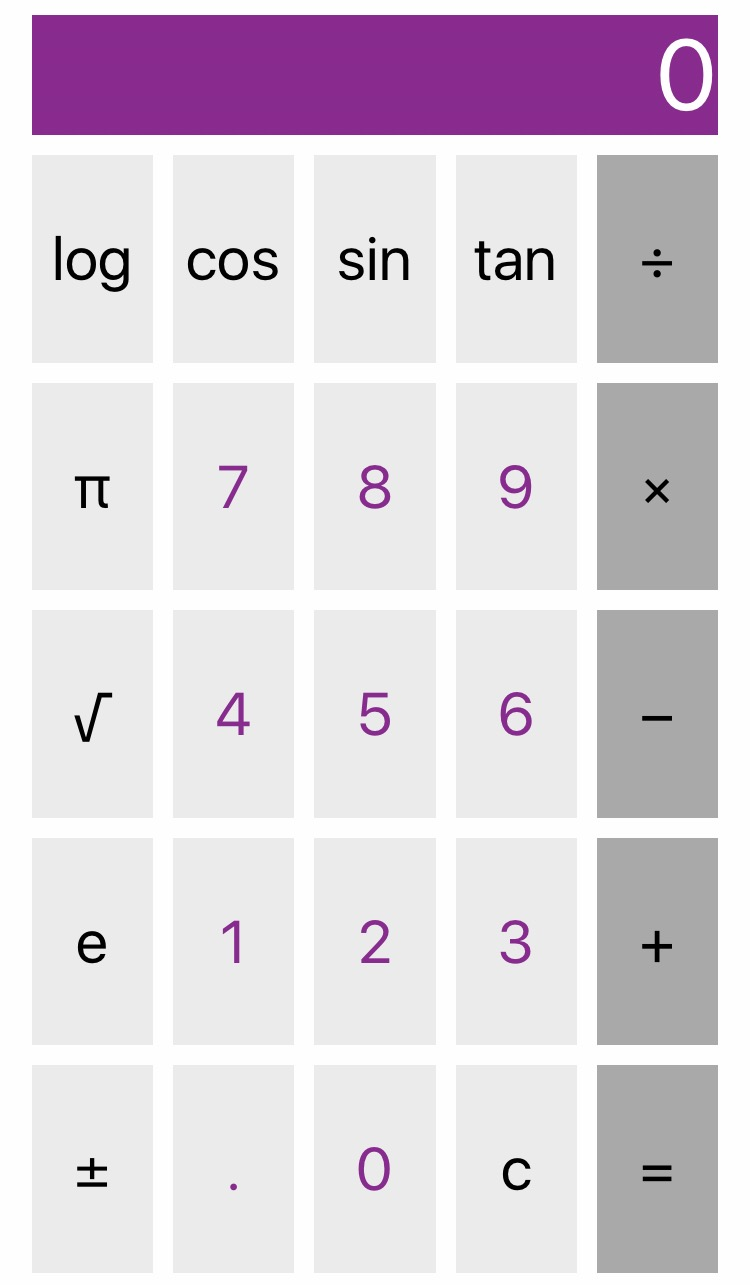
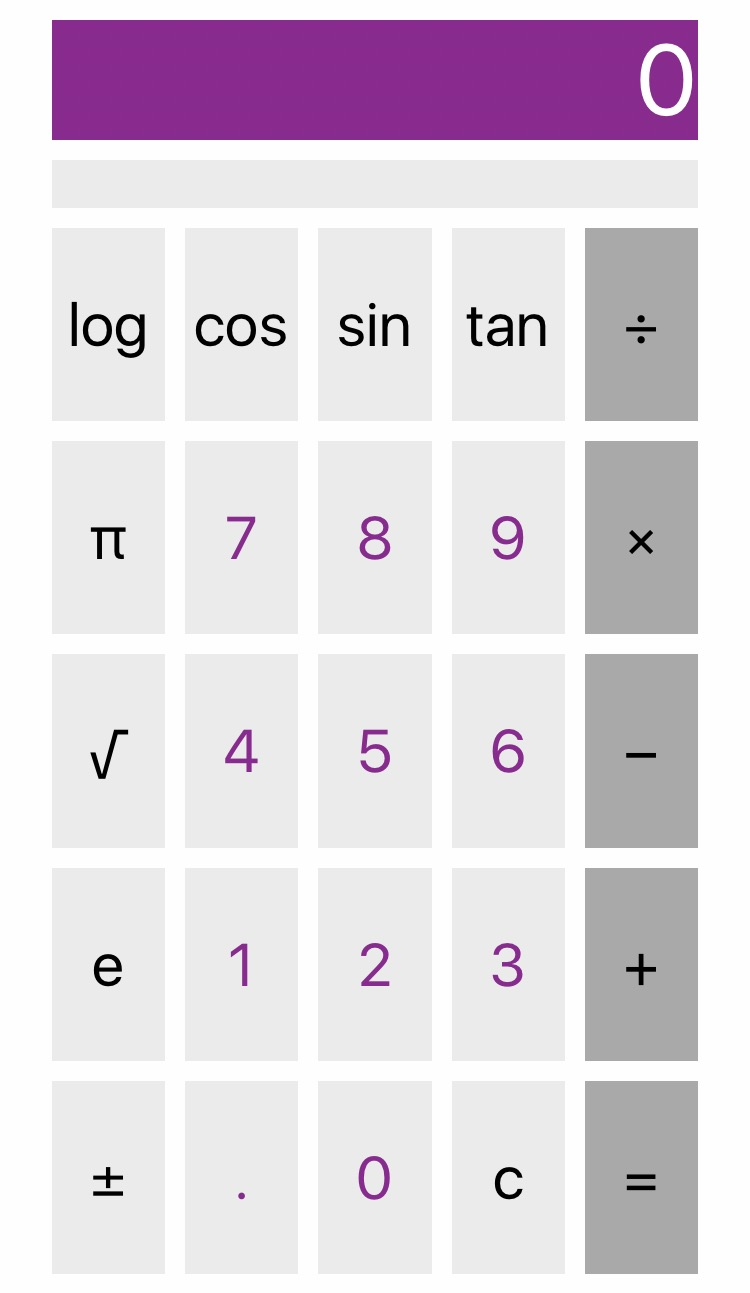
UI shows past operations

diff --git a/CalculatorBrain.swift b/CalculatorBrain.swift
@@ -11,9 +11,17 @@ import Foundation
 class CalculatorBrain {
   
   private var accumulator = 0.0
+  private var internalProgram = [AnyObject]()
+  
+  var description = ""
+  
+  var isPartialResult: Bool {
+    return pending == nil
+  }
   
   func setOperand(operand: Double) {
     accumulator = operand
+    internalProgram.append(operand as AnyObject)
   }
   
   private var operations: Dictionary<String, Operation> = [
@@ -41,30 +49,48 @@ class CalculatorBrain {
     case Clear
   }
   func performOperation(symbol: String) {
+    internalProgram.append(symbol as AnyObject)
     if let operation = operations[symbol] {
       switch operation {
       case .Constant(let value):
         accumulator = value
+        if pending != nil {
+          description += " " + formatAccumulator()
+        } else {
+          description = formatAccumulator()
+        }
+        
       case .UnaryOperation(let function):
         // Doesn't allow the square root of negative numbers
         if symbol == "√" && accumulator < 0 {
           return
         }
         accumulator = function(accumulator)
+        if description.trimmingCharacters(in: CharacterSet.whitespacesAndNewlines) == "" {
+          description = " " + symbol + "(" + formatAccumulator() + ")"
+        } else {
+          description = " " + symbol + "(" + description + ")"
+        }
       case .BinaryOperation(let function):
         executePendingBinaryOperation()
         pending = PendingBinaryOperationInfo(binaryFunction: function, firstOperand: accumulator)
+        if description.trimmingCharacters(in: CharacterSet.whitespacesAndNewlines) == "" {
+          description += formatAccumulator() + " " + symbol
+        } else {
+          description += " " + symbol
+        }
+        
       case .Equals:
         executePendingBinaryOperation()
       case .Clear:
-        pending = nil
-        accumulator = 0.0
+        clear()
       }
     }
   }
   
   private func executePendingBinaryOperation() {
     if pending != nil {
+      description += " " + formatAccumulator()
       accumulator = pending!.binaryFunction(pending!.firstOperand, accumulator)
       pending = nil
     }
@@ -75,6 +101,35 @@ class CalculatorBrain {
   private struct PendingBinaryOperationInfo {
     var binaryFunction: (Double, Double) -> Double
     var firstOperand: Double
+  }
+  
+  typealias PropertyList = AnyObject
+  var program: PropertyList {
+    get {
+      return internalProgram as CalculatorBrain.PropertyList
+    }
+    set {
+      clear()
+      if let arrayofOps = newValue as? [AnyObject] {
+        for op in arrayofOps {
+          if let operand = op as? Double {
+            setOperand(operand: operand)
+          } else if let operation = op as? String {
+            performOperation(symbol: operation)
+          }
+        }
+      }
+    }
+  }
+  
+  private func clear() {
+    accumulator = 0.0
+    pending = nil
+    description = " "
+  }
+  
+  private func formatAccumulator() -> String {
+    return round(accumulator) == accumulator ? String(Int(accumulator)) : String(accumulator)
   }
   
   var result: Double {

diff --git a/Calculator/ViewController.swift b/Calculator/ViewController.swift
@@ -11,7 +11,7 @@ import UIKit
 class ViewController: UIViewController {
   
   @IBOutlet weak var display: UILabel!
-  
+  @IBOutlet weak var equationDisplay: UILabel!
   private var userIsInTheMiddleOfTyping = false
   
   @IBAction func digitTouched(_ sender: UIButton) {
@@ -19,7 +19,6 @@ class ViewController: UIViewController {
     if (digit == "." && (display.text?.contains("."))!) || (digit == "0" && displayValue == 0) {
       return
     } else if digit == "." || userIsInTheMiddleOfTyping {
-      
       let textCurrentlyInDisplay = display.text
       display.text = textCurrentlyInDisplay! + digit
     } else {
@@ -41,6 +40,20 @@ class ViewController: UIViewController {
     }
   }
   
+  
+  var savedProgram: CalculatorBrain.PropertyList?
+  
+  @IBAction func save() {
+    savedProgram = brain.program
+  }
+  
+  @IBAction func restore() {
+    if savedProgram != nil {
+      brain.program = savedProgram!
+      displayValue = brain.result
+    }
+  }
+  
   private var brain = CalculatorBrain()
   
   @IBAction func operationButtonTouched(_ sender: UIButton) {
@@ -52,6 +65,7 @@ class ViewController: UIViewController {
       brain.performOperation(symbol: mathematicalSymbol)
     }
     displayValue = brain.result
+    equationDisplay.text = brain.description
   }
 }
 
